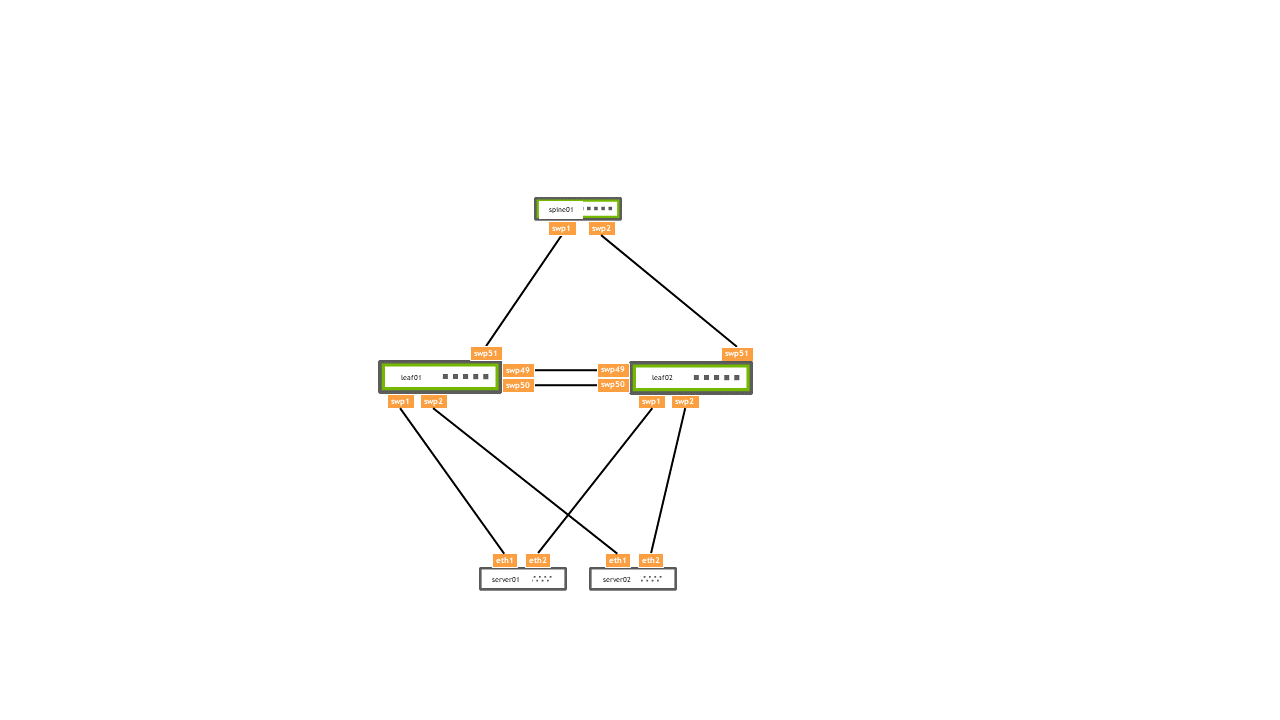
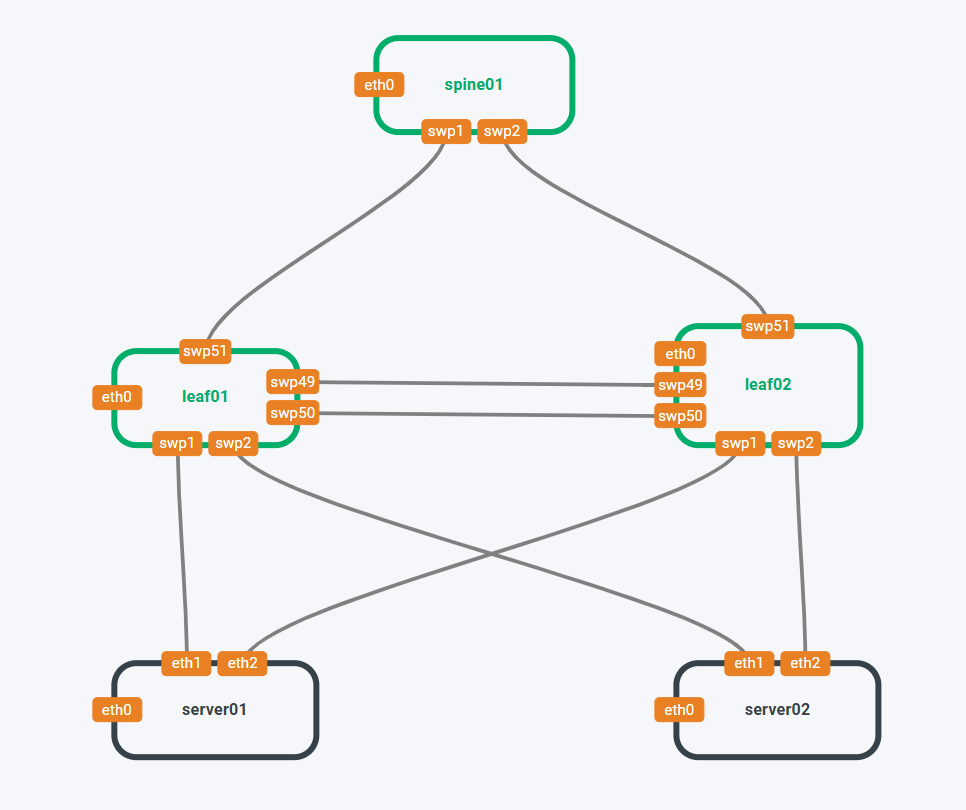
update content

diff --git a/guided-tour.md b/guided-tour.md
@@ -1,7 +1,8 @@
 # Cumulus Linux Test Drive: Lab Guide
 
 # Topology
-![air_simulation](https://raw.githubusercontent.com/NVIDIA/cumulus-test-drive/main/testdrive_topology.png) 
+![air_simulation-1](https://gitlab.com/cumulus-consulting/goldenturtle/cumulus_ansible_modules/-/raw/evpn_demo_nvue_5.x/testdrive_topology.png?ref_type=heads&inline=false)  
+![air_simulation-2](https://gitlab.com/cumulus-consulting/goldenturtle/cumulus_ansible_modules/-/raw/evpn_demo_nvue_5.x/CL_Workshop.svg?ref_type=heads)  
 
 ## Lab Credentials
 
